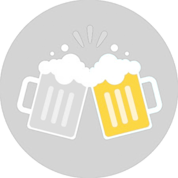
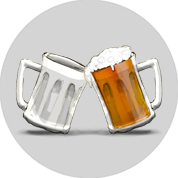
[update] beers, 'Bitcoin' title, better signin/signup

Changed region(s): [[0.0843, 0.2528, 0.927, 0.7865]]

diff --git a/beercoin/templates/userena/signup_form.html b/beercoin/templates/userena/signup_form.html
@@ -6,16 +6,24 @@
 {% block content %}
 <div class="row">
 
-	<div class="span2">
+	<div class="span1">
 	</div>
-	<div class="span4">
+	<div class="span6">
 		
-		<br/><br/><br/>
+		<br/><br/><br/><br/>
 		
-		<img src="/static/img/logo_small.png" width="80%"/>
-		<br/>
-		<h1>Beercoin</h1>
-		<h4>The beer to beer network.</h4>
+		<div class="media">
+			<a class="pull-left">
+				<img src="/static/img/logo_small.png" width="100"/>
+			</a>
+			<div class="media-body">
+				<h1>Beercoin</h1>
+				<h4>The beer to beer network.</h4>
+			</div>
+		</div>
+
+		<br/><br/>
+		<!--iframe width="95%" height="300" src="http://www.youtube.com/embed/xryce20DMx4" frameborder="0" allowfullscreen></iframe-->
 
 	</div>
 	<div class="span4">
@@ -64,7 +72,7 @@
 </form>
 
 	</div>
-	<div class="span2">
+	<div class="span1">
 	</div>
 </div>
 {% endblock %}

diff --git a/beercoin/templates/userena/signin_form.html b/beercoin/templates/userena/signin_form.html
@@ -7,16 +7,24 @@
 {% block content %}
 <div class="row">
 
-	<div class="span2">
+	<div class="span1">
 	</div>
-	<div class="span4">
+	<div class="span6">
 		
-		<br/><br/><br/>
-		
-		<img src="/static/img/logo_small.png" width="80%"/>
 		<br/>
-		<h1>Beercoin</h1>
-		<h4>The beer to beer network.</h4>
+		
+		<div class="media">
+			<a class="pull-left">
+				<img src="/static/img/logo_small.png" width="100"/>
+			</a>
+			<div class="media-body">
+				<h1>Beercoin</h1>
+				<h4>The beer to beer network.</h4>
+			</div>
+		</div>
+
+		<br/>
+		<!--iframe width="95%" height="300" src="http://www.youtube.com/embed/xryce20DMx4" frameborder="0" allowfullscreen></iframe-->
 
 	</div>
 	<div class="span4">
@@ -70,7 +78,7 @@
 </form>
 
 	</div>
-	<div class="span2">
+	<div class="span1">
 	</div>
 </div>
 {% endblock %}

diff --git a/beercoin/templates/userena/email_form.html b/beercoin/templates/userena/email_form.html
@@ -5,8 +5,8 @@
 {% block content_navigation %}
 <div class="masthead">
   <h3 class="muted">
-  	<a href="/"><img src="/static/img/user.png" width="50" style="margin-left: 10px;"/></a>
-  	<a href="/">BeerCoin</a>
+  	<a href="/"><img src="/static/img/logo.png" width="50" style="margin-left: 10px;"/></a>
+  	<a href="/">Beercoin</a>
   </h3>
   <h4 class="muted">
   	The Beer to Beer network.

diff --git a/beercoin/templates/userena/password_form.html b/beercoin/templates/userena/password_form.html
@@ -5,8 +5,8 @@
 {% block content_navigation %}
 <div class="masthead">
   <h3 class="muted">
-  	<a href="/"><img src="/static/img/user.png" width="50" style="margin-left: 10px;"/></a>
-  	<a href="/">BeerCoin</a>
+  	<a href="/"><img src="/static/img/logo.png" width="50" style="margin-left: 10px;"/></a>
+  	<a href="/">Beercoin</a>
   </h3>
   <h4 class="muted">
   	The Beer to Beer network.

diff --git a/beercoin/templates/userena/profile_form.html b/beercoin/templates/userena/profile_form.html
@@ -7,8 +7,8 @@
 {% block content_navigation %}
 <div class="masthead">
   <h3 class="muted">
-  	<a href="/"><img src="/static/img/user.png" width="50" style="margin-left: 10px;"/></a>
-  	<a href="/">BeerCoin</a>
+  	<a href="/"><img src="/static/img/logo.png" width="50" style="margin-left: 10px;"/></a>
+  	<a href="/">Beercoin</a>
   </h3>
   <h4 class="muted">
   	The Beer to Beer network.

diff --git a/beercoin/templates/base.html b/beercoin/templates/base.html
@@ -6,7 +6,7 @@
     <head>
         <meta charset="utf-8">
         <meta http-equiv="X-UA-Compatible" content="IE=edge,chrome=1">
-		<title>{% block title %}BeerCoin{% endblock %}</title>
+		<title>{% block title %}Beercoin{% endblock %}</title>
         <meta name="description" content="">
         <meta name="viewport" content="width=device-width">
 		{% block meta %}{% endblock %}
